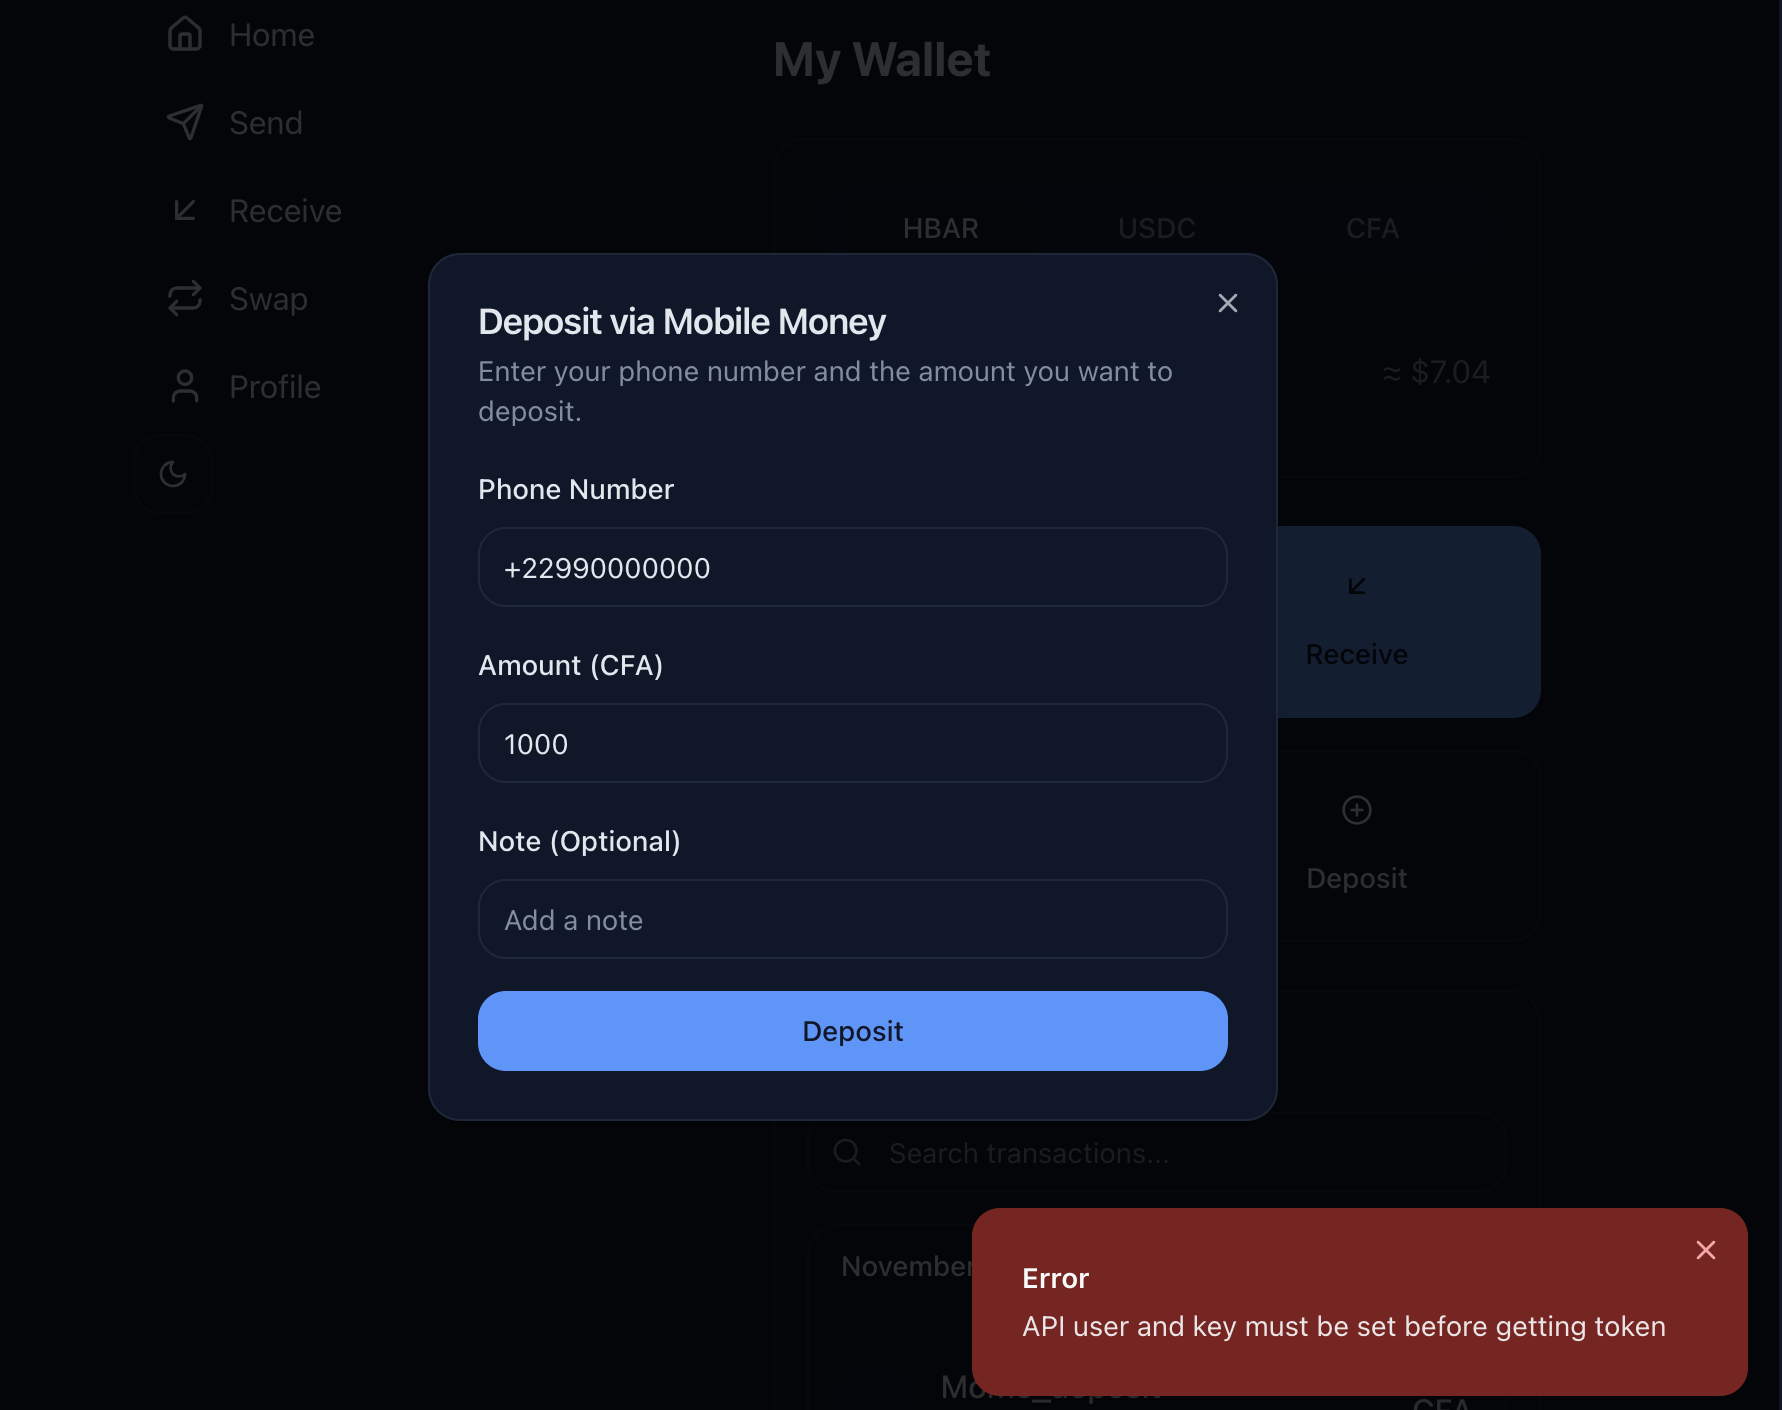
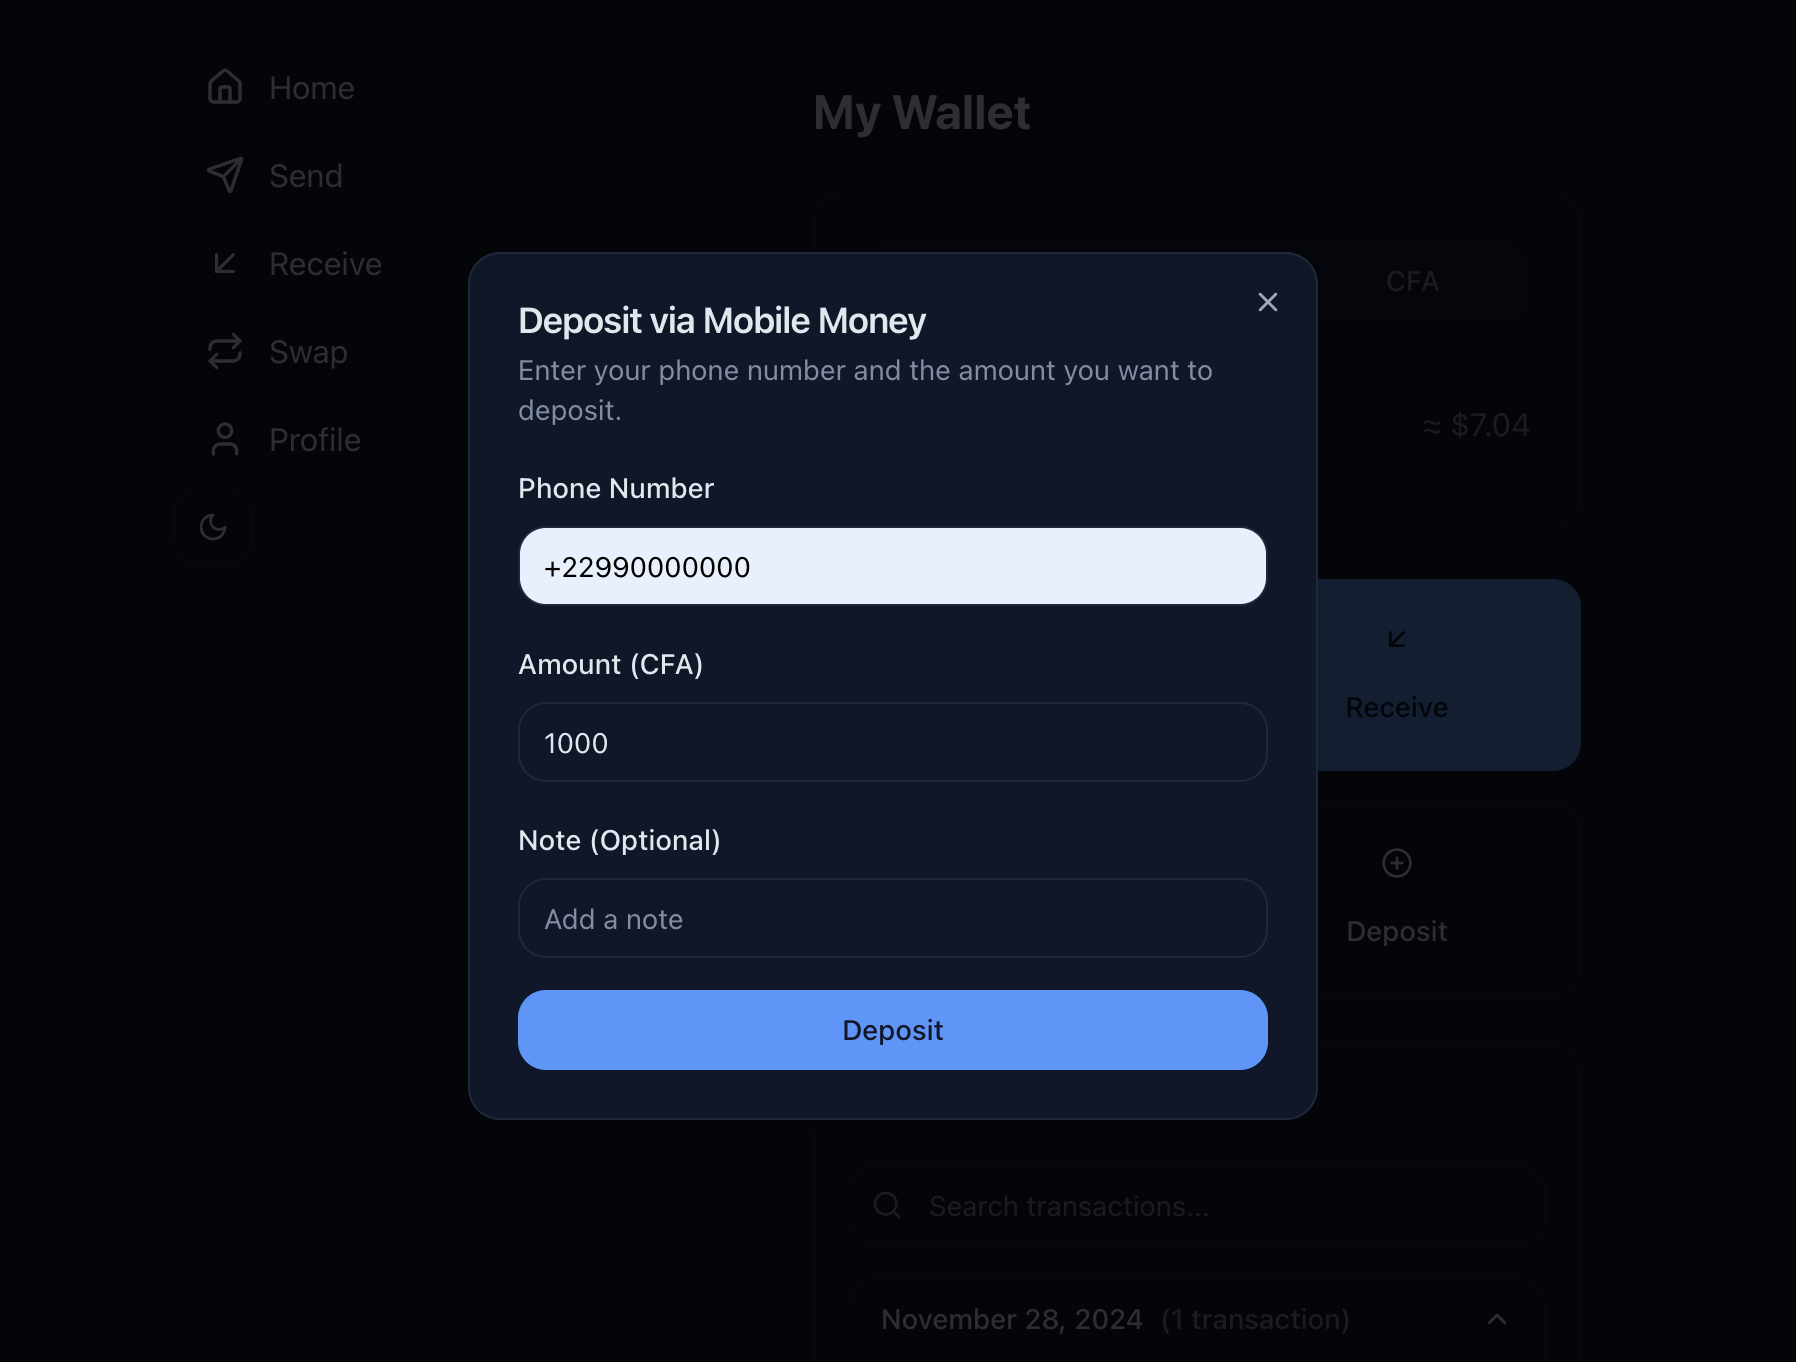
Agent query: Can you verify if the deposit feature is working now? Try to deposit 1000 CFA using a phone number in the format +229XXXXXXXX

diff --git a/server/momo.ts b/server/momo.ts
@@ -1,6 +1,12 @@
 import { v4 as uuidv4 } from 'uuid';
 
 const BASE_URL = 'https://sandbox.momodeveloper.mtn.com/v1_0';
+const API_ENDPOINTS = {
+  token: `${BASE_URL}/collection/token`,
+  apiUser: `${BASE_URL}/apiuser`,
+  requestToPay: `${BASE_URL}/collection/v1_0/requesttopay`,
+  disbursement: `${BASE_URL}/disbursement/v1_0/transfer`,
+};
 const TOKEN_VALIDITY_DURATION = 3600; // 1 hour in seconds
 
 interface ApiUserResponse {
@@ -170,8 +176,9 @@ export class MoMoAPI {
     }
 
     try {
+      console.log('Requesting new access token...');
       const auth = Buffer.from(`${this.apiUser}:${this.apiKey}`).toString('base64');
-      const response = await fetch(`${BASE_URL}/collection/token/`, {
+      const response = await fetch(API_ENDPOINTS.token, {
         method: 'POST',
         headers: {
           'Authorization': `Basic ${auth}`,
@@ -179,12 +186,25 @@ export class MoMoAPI {
         }
       });
 
+      console.log('Token request response:', {
+        status: response.status,
+        statusText: response.statusText,
+        headers: Object.fromEntries(response.headers.entries())
+      });
+
       if (!response.ok) {
-        const error = await response.text();
-        throw new MoMoError(`Failed to get token: ${error}`, response.status);
+        const errorText = await response.text();
+        console.error('Token request failed:', {
+          status: response.status,
+          statusText: response.statusText,
+          error: errorText
+        });
+        throw new MoMoError(`Failed to get token: ${errorText}`, response.status);
       }
 
       const data: TokenResponse = await response.json();
+      console.log('Token request successful, expires in:', data.expires_in, 'seconds');
+      
       this.accessToken = data.access_token;
       this.tokenExpiry = Date.now() + (data.expires_in * 1000);
       return this.accessToken;
@@ -192,6 +212,7 @@ export class MoMoAPI {
       if (error instanceof MoMoError) {
         throw error;
       }
+      console.error('Unexpected error during token request:', error);
       throw new MoMoError(`Failed to get token: ${error instanceof Error ? error.message : 'Unknown error'}`);
     }
   }
